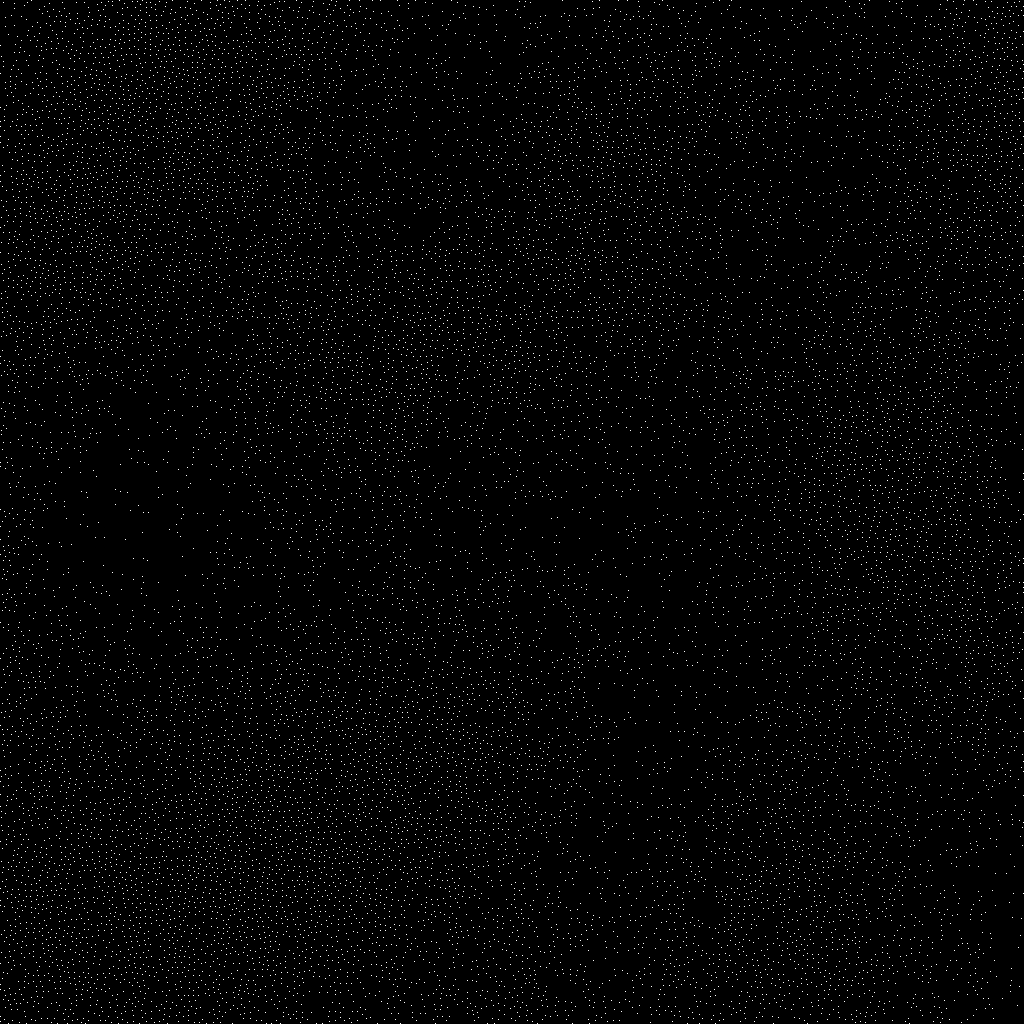
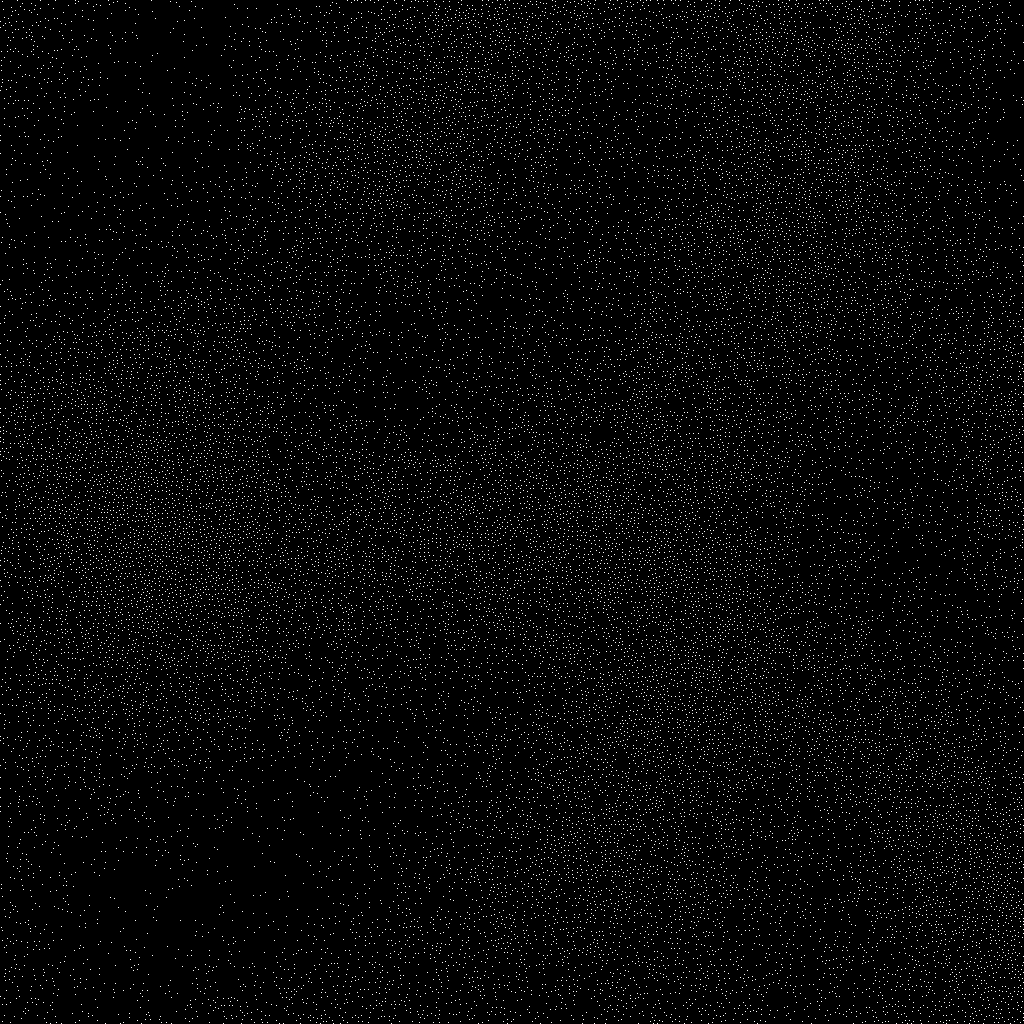
refactored filters to make independed from width/height

diff --git a/filter-png.go b/filter-png.go
@@ -1,38 +1,45 @@
 package poisson
 
 import (
+	"os"
 	"image"
 	"image/png"
-	"os"
 )
 
 type grayScalePngFilter struct {
-	*noiseFilter
 	density image.Image
+	width   float64
+	height  float64
 }
 
 //NewGrayScalePngFilter returns a PointFilter that uses a gray scale image for filtering
-func NewGrayScalePngFilter(width, height int, pngFileName string) PointFilter {
+func NewGrayScalePngFilter(pngFileName string) PointFilter {
 	f, _ := os.Open(pngFileName)
 	defer f.Close()
 	density, _ := png.Decode(f)
 
+	bounds := density.Bounds()
 	filter := &grayScalePngFilter{
-		noiseFilter: &noiseFilter{
-			width:  width,
-			height: height,
-		},
 		density: density,
+		width:   float64(bounds.Dx()),
+		height:  float64(bounds.Dy()),
 	}
 
-	filter.noiseFilter.PointFilter = filter.noiseFilter
-	filter.noiseValue = filter
 	return filter
 }
 
-func (f *grayScalePngFilter) GetNoiseValue(x, y int) float64 {
-	C := f.density.At(x, y)
+//filters points based on noise value
+func (f *grayScalePngFilter) Filter(point *Point, settings *options) bool {
+	R := settings.generator.Float()
+
+	//get color from map
+	C := f.density.At(int(point.X*f.width), int(point.Y*f.height))
+
+	//extract red value (in gray scale image each part equals)
 	V, _, _, _ := C.RGBA()
 
-	return float64(V>>8) / 255.0
+	//reduce value to uint8 and normalize to [0, 1] from [0, 255]
+	P := float64(V>>8) / 255.0
+
+	return R < P
 }

diff --git a/filter-simplex.go b/filter-simplex.go
@@ -5,31 +5,28 @@ import (
 )
 
 type simplexNoiseFilter struct {
-	*noiseFilter
 	featureSize float64
 	noise       *opensimplex.Noise
 }
 
 //NewSimplexNoiseFilter returns a PointFilter that uses the simplex noise algorithm
-func NewSimplexNoiseFilter(width, height int, featureSize int, noiseSeed int64) PointFilter {
+func NewSimplexNoiseFilter(featureSize int, noiseSeed int64) PointFilter {
 	filter := &simplexNoiseFilter{
-		noiseFilter: &noiseFilter{
-			width:  width,
-			height: height,
-		},
 		featureSize: float64(featureSize),
 		noise:       opensimplex.NewWithSeed(noiseSeed),
 	}
 
-	filter.noiseFilter.PointFilter = filter.noiseFilter
-	filter.noiseValue = filter
-
 	return filter
 }
 
-func (f *simplexNoiseFilter) GetNoiseValue(x, y int) float64 {
-	N := f.noise.Eval2(float64(x)/float64(f.featureSize), float64(y)/float64(f.featureSize))
+//filters points based on noise value
+func (f *simplexNoiseFilter) Filter(point *Point, settings *options) bool {
+	R := settings.generator.Float()
 
-	//simplex noise returns value in range [-1, 1], so we return normalized to point's allowed boundaries [0, 1]
-	return (N - (-1)) / (1 - (-1))
+	//get noise value for point
+	N := f.noise.Eval2(point.X*f.featureSize, point.Y*f.featureSize)
+
+	//normalize it to [0, 1] from [-1, 1]
+	P := (N + 1) / 2
+	return R < P
 }

diff --git a/example_test.go b/example_test.go
@@ -111,7 +111,7 @@ func Example_withSimplexNoisePostFilter() {
 	//generate poisson disk samplings
 	points := poisson.NewPoissonDisk(
 		NUM_POINTS,
-		poisson.WithPostFilter(poisson.NewSimplexNoiseFilter(WIDTH, HEIGHT, WIDTH/8, 0)),
+		poisson.WithPostFilter(poisson.NewSimplexNoiseFilter(WIDTH/32, 0)),
 	)
 
 	//draw result
@@ -152,8 +152,8 @@ func Example_withPngNoisePostFilter() {
 
 	//generate poisson disk samplings
 	points := poisson.NewPoissonDisk(
-		NUM_POINTS,
-		poisson.WithPostFilter(poisson.NewGrayScalePngFilter(WIDTH, HEIGHT, "./example-screenshots/noise.png")),
+		NUM_POINTS*2,
+		poisson.WithPostFilter(poisson.NewGrayScalePngFilter("./example-screenshots/noise.png")),
 	)
 
 	//draw result
@@ -182,8 +182,8 @@ func Example_fullFeatured() {
 		poisson.WithMinDistance(0.01),
 		poisson.WithGenerator(poisson.NewBasicGenerator(100)),
 		poisson.WithAreaFilter(poisson.NewCircleFilter(0.5, 0.5, 0.25)),
-		poisson.WithPostFilter(poisson.NewSimplexNoiseFilter(WIDTH, HEIGHT, WIDTH/16, 0)),
-		poisson.WithStartPoint(0.5,0.5),
+		poisson.WithPostFilter(poisson.NewSimplexNoiseFilter(WIDTH/16, 0)),
+		poisson.WithStartPoint(0.5, 0.5),
 		poisson.WithPoints([]*poisson.Point{
 			{X: 0.45, Y: 0.5},
 			{X: 0.55, Y: 0.5},

diff --git a/filter-circle.go b/filter-circle.go
@@ -1,0 +1,25 @@
+package poisson
+
+type circleFilter struct {
+	center Point
+	radius float64
+}
+
+//NewCircleFilter returns a PointFilter that returns only points inside of circle
+func NewCircleFilter(x, y, r float64) PointFilter {
+	return &circleFilter{
+		center: Point{
+			x,
+			y,
+		},
+		radius: r,
+	}
+}
+
+//filters points inside of circle
+func (f *circleFilter) Filter(point *Point, settings *options) bool {
+	cx := point.X - f.center.X
+	cy := point.Y - f.center.Y
+	return (cx*cx + cy*cy) <= f.radius
+}
+

diff --git a/filter-rectangle.go b/filter-rectangle.go
@@ -1,0 +1,19 @@
+package poisson
+
+type rectangleFilter struct {
+	min float64
+	max float64
+}
+
+//NewRectangleFilter returns a PointFilter that returns only points inside of rectangle
+func NewRectangleFilter(min, max float64) PointFilter {
+	return &rectangleFilter{
+		min: min,
+		max: max,
+	}
+}
+
+//filters points inside of rectangle
+func (f *rectangleFilter) Filter(point *Point, settings *options) bool {
+	return (point.X >= f.min && point.Y >= f.min) && (point.X <= f.max && point.Y <= f.max)
+}

diff --git a/point.go b/point.go
@@ -10,6 +10,11 @@ type Point struct {
 	Y float64
 }
 
+//PointFilter interface is for filters to return valid points. In general, any point must be inside of [0.0, 1.0] box
+type PointFilter interface {
+	Filter(point *Point, settings *options) bool
+}
+
 //Distance returns a distance between point and other points
 func (point *Point) Distance(other *Point) float64 {
 	dx, dy := point.X-other.X, point.Y-other.Y
